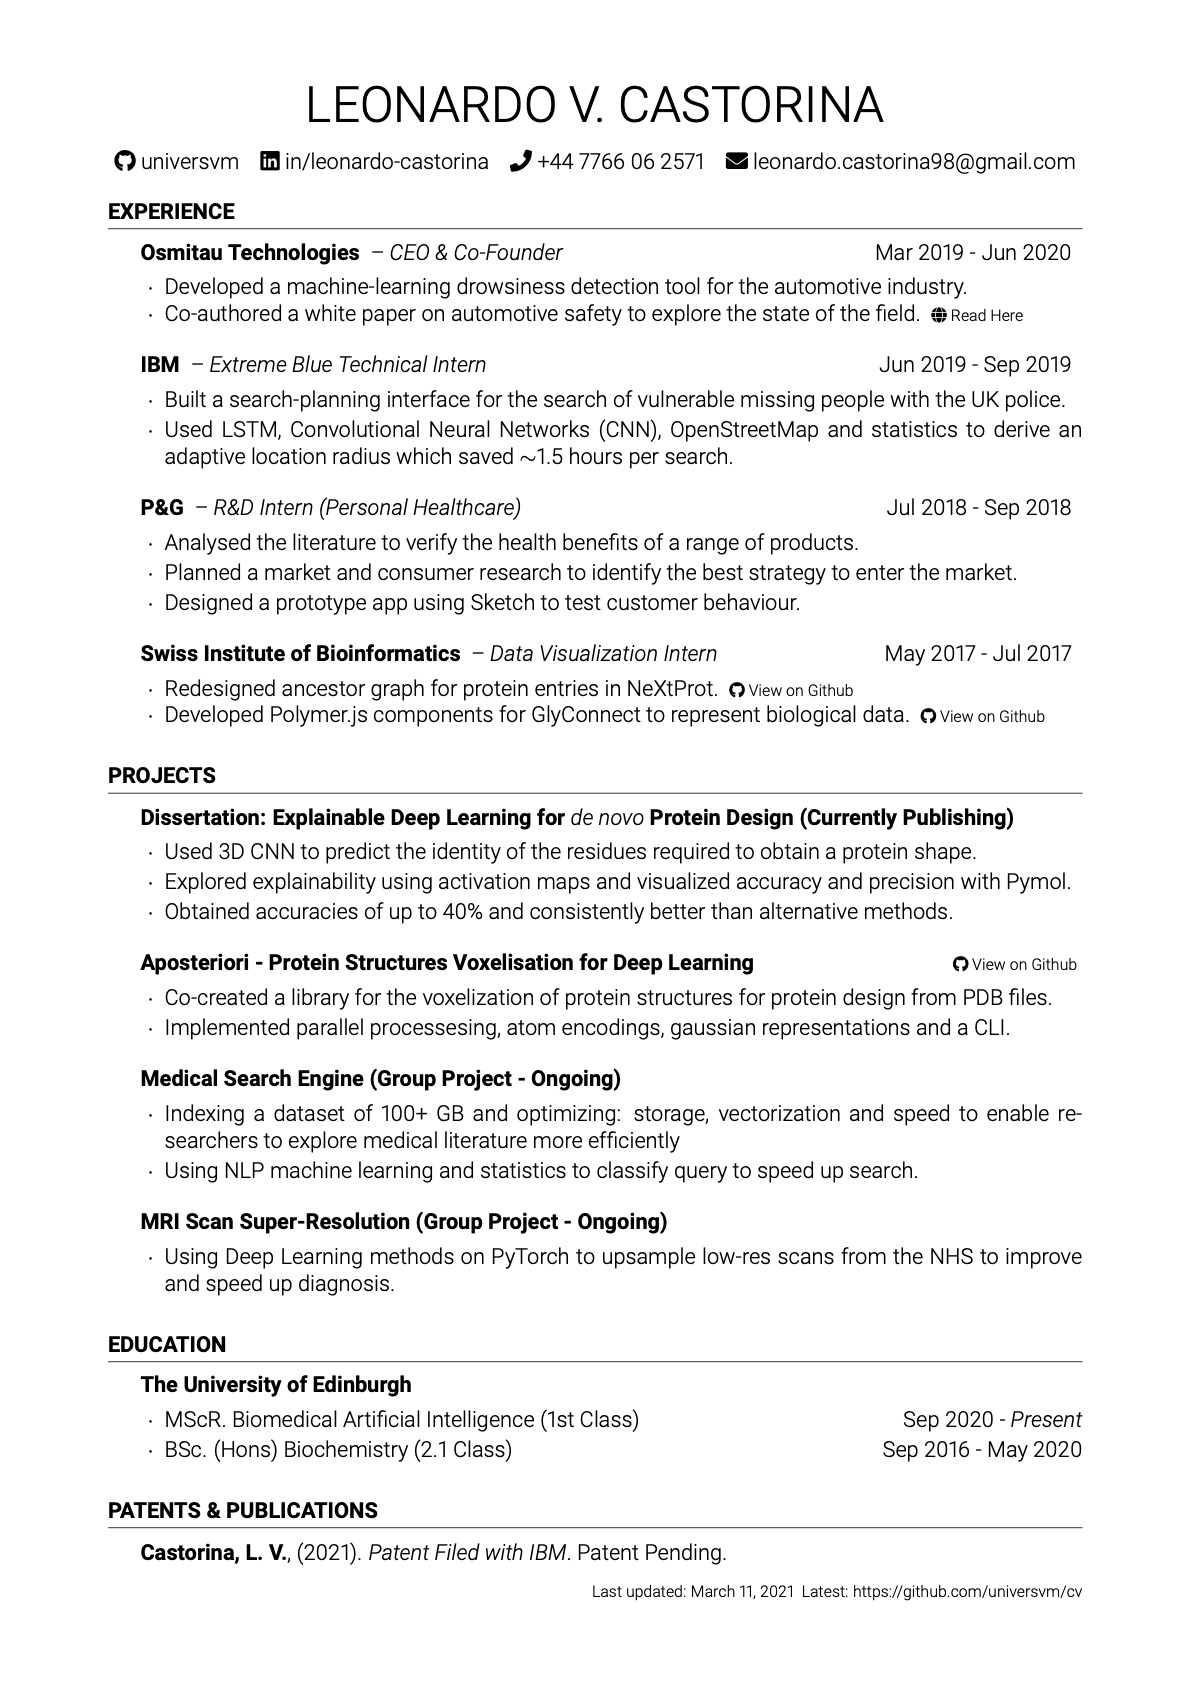
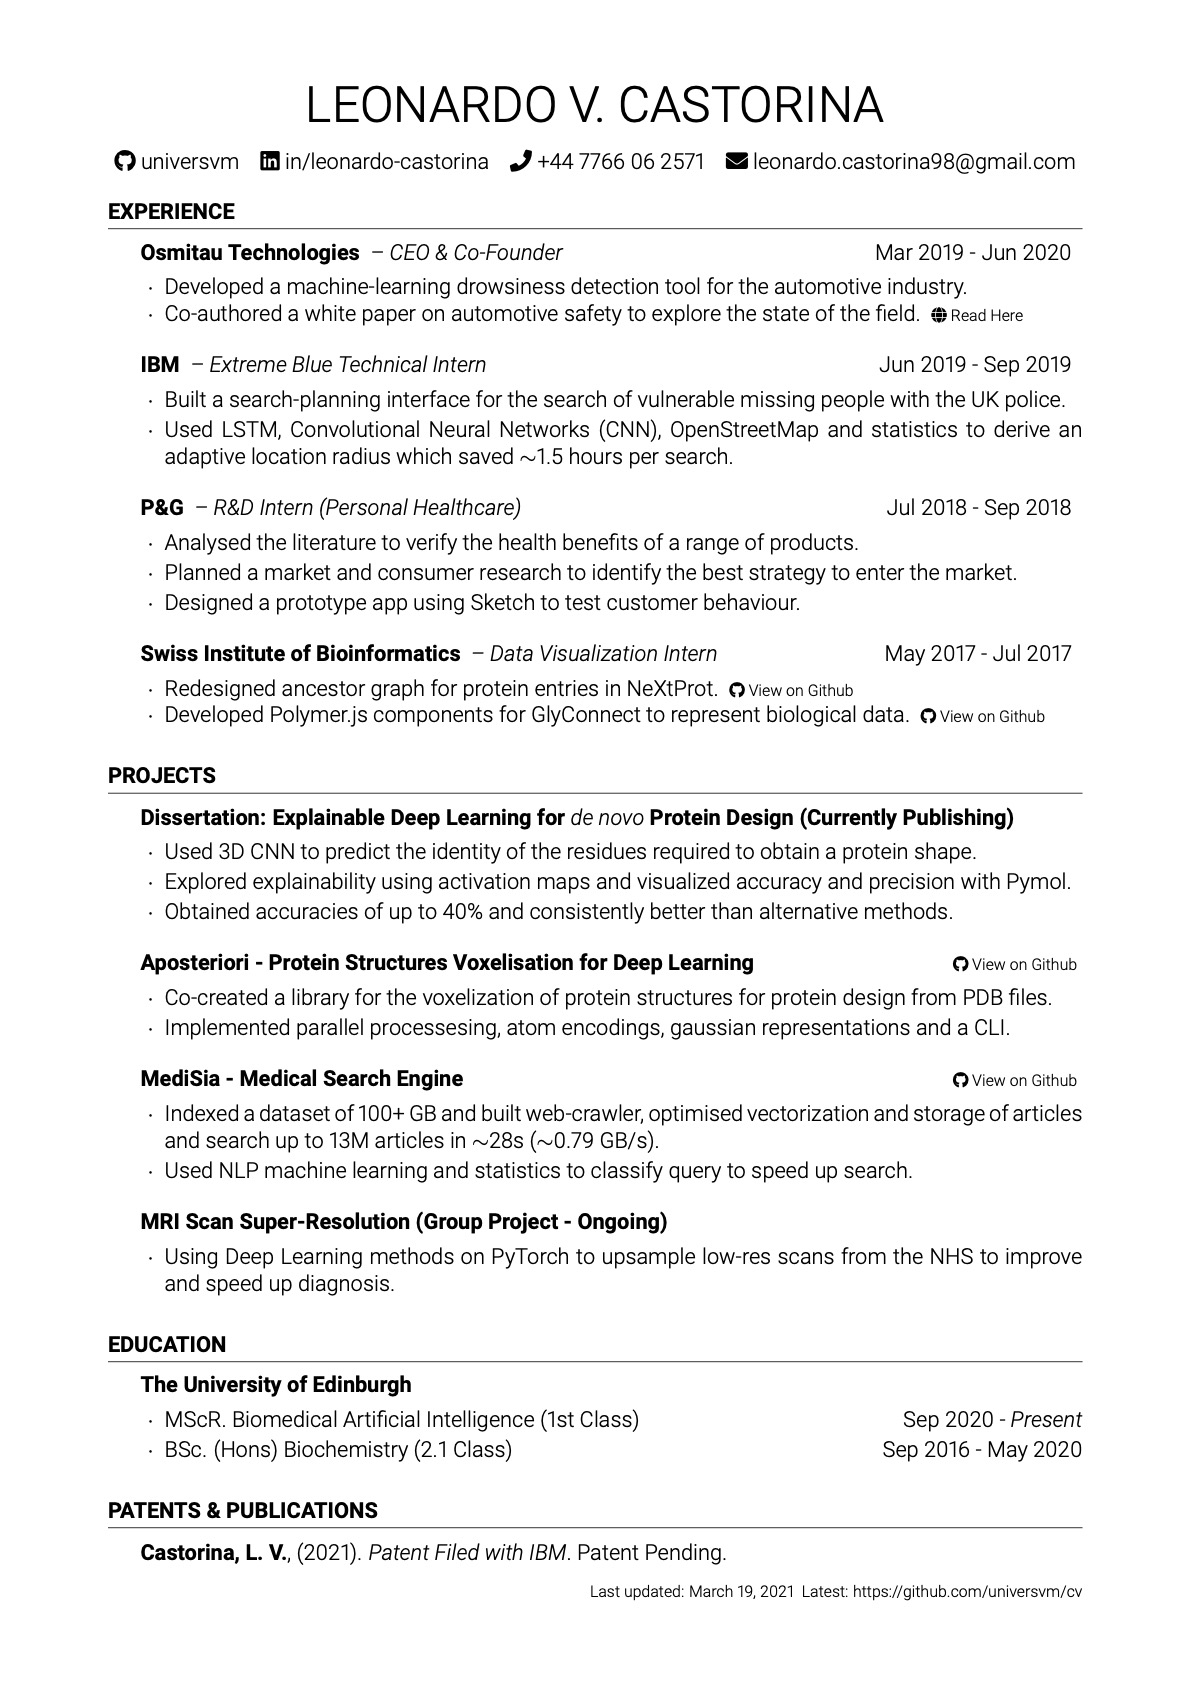
Add medisia

Changed region(s): [[0.1555, 0.6179, 0.9017, 0.7106], [0.4975, 0.9269, 0.6218, 0.9578]]

diff --git a/cv.tex b/cv.tex
@@ -104,10 +104,12 @@ the field. \fontsize{8pt}{12pt}\selectfont\href{https://osmitau.com/solutions
 
 %------------------------------------------------
 
-\begin{rSubsection}{Medical Search Engine (Group Project - Ongoing)}{}{}
-
-\item Indexing a dataset of 100+ GB and optimizing: storage, vectorization and speed to enable researchers to explore medical literature more efficiently
-\item Using NLP machine learning and statistics to classify query to speed up search. 
+\begin{rSubsection}{MediSia - Medical Search Engine}{\fontsize{8pt}{12pt}\selectfont \href
+{https://github.com/universvm/MediSia}{ \faGithub \ View on Github}}{}{}
+\item Indexed a dataset of 100+ GB and built web-crawler, optimised
+vectorization and storage of articles and search up to 13M articles in $\sim$28s ($\sim$0.79 GB/s).
+\item Used NLP machine learning and statistics to classify query to speed up
+search.
 \end{rSubsection}
 
 %------------------------------------------------
